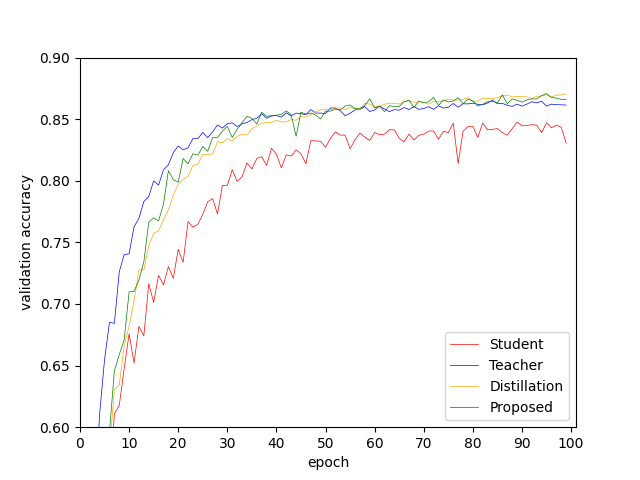
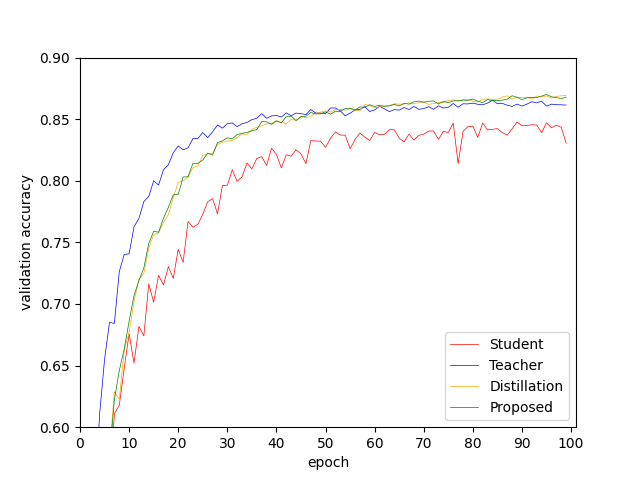
cam-distillation

Changed region(s): [[0.25, 0.1875, 0.9062, 0.4688], [0.1562, 0.5625, 0.2188, 0.875], [0.2188, 0.4688, 0.25, 0.5625]]

diff --git a/src/model.py b/src/model.py
@@ -4,7 +4,7 @@ import torch.nn as nn
 class TeacherConvBnAct(nn.Module):
     def __init__(self, input_dim, output_dim):
         super().__init__()
-        self.conv = nn.Conv2d(input_dim, output_dim, 3, padding=1)
+        self.conv = nn.Conv2d(input_dim, output_dim, 3)
         self.dropout = nn.Dropout(p=0.2)
         self.bn = nn.BatchNorm2d(output_dim)
         self.relu = nn.ReLU(inplace=True)
@@ -19,7 +19,7 @@ class TeacherConvBnAct(nn.Module):
 class StudentConvBnAct(nn.Module):
     def __init__(self, input_dim, output_dim):
         super().__init__()
-        self.conv = nn.Conv2d(input_dim, output_dim, 3, padding=1)
+        self.conv = nn.Conv2d(input_dim, output_dim, 3)
         self.bn = nn.BatchNorm2d(output_dim)
         self.relu = nn.ReLU(inplace=True)
         
@@ -187,7 +187,7 @@ class TModel(BaseModel):
 ### ResNet ###
 class BasicBlock(nn.Module):
     rate=1
-    def __init__(self, input_dim, output_dim,stride=1,drop=0.3):
+    def __init__(self, input_dim, output_dim, stride=1, drop=0.3):
         super().__init__()
         
         self.relu = nn.ReLU(inplace=True)
@@ -253,7 +253,7 @@ class ResNetStudent(nn.Module):
         self.drop = drop
         
         self.conv1 = nn.Sequential(
-            nn.Conv2d(3, 16, kernel_size=3, padding=1, bias=False),
+            nn.Conv2d(3, 16, kernel_size=3, bias=False),
             nn.BatchNorm2d(16),
             nn.ReLU(inplace=True)
         )
@@ -339,7 +339,7 @@ class ResNet(nn.Module):
         self.drop = drop
         
         self.conv1 = nn.Sequential(
-            nn.Conv2d(3, 64, kernel_size=3, padding=1, bias=False),
+            nn.Conv2d(3, 64, kernel_size=3, bias=False),
             nn.BatchNorm2d(64),
             nn.ReLU(inplace=True)
         )
@@ -377,11 +377,11 @@ class ResNet(nn.Module):
 class SampleModel(nn.Module):
     def __init__(self, input_dim=3):
         super().__init__()
-        self.conv1 = nn.Conv2d(input_dim, 32, 3, padding=1)
-        self.conv2 = nn.Conv2d(32, 32, 3, padding=1)
-        self.conv3 = nn.Conv2d(32, 128, 3, padding=1)
-        self.conv4 = nn.Conv2d(128, 128, 3, padding=1)
-        self.conv5 = nn.Conv2d(128, 128, 3, padding=1)
+        self.conv1 = nn.Conv2d(input_dim, 32, 3, padding='same')
+        self.conv2 = nn.Conv2d(32, 32, 3, padding='same')
+        self.conv3 = nn.Conv2d(32, 128, 3, padding='same')
+        self.conv4 = nn.Conv2d(128, 128, 3, padding='same')
+        self.conv5 = nn.Conv2d(128, 128, 3, padding='same')
         self.maxpool = nn.MaxPool2d(2, stride=2)
         self.relu = nn.ReLU(inplace=True)
         self.gap = nn.AdaptiveAvgPool2d((1, 1))
@@ -393,12 +393,13 @@ class SampleModel(nn.Module):
         x = self.maxpool(x)
         x = self.relu(self.conv3(x))
         x = self.relu(self.conv4(x))
+        x = self.maxpool(x)
         x = self.relu(self.conv5(x))
         self.attmap = x
         x = self.gap(x)
         x = x.view(x.shape[0], -1)
         x = self.fc(x)
-        return x, [self.attmap, self.fc.weight]
+        return x, self.attmap
         
 
 # ResNet98
@@ -411,10 +412,18 @@ def resnet_teacher(output_dim=10):
     
 # モデルのパラメータ数のカウント
 teacher = resnet_teacher()
-student = resnet_student()
+student = SampleModel()
+teacher.eval()
+student.eval()
 
 def count_parameters(model):
     return sum(param.numel() for param in model.parameters() if param.requires_grad)
 
 print(f"Teacher parameters: {count_parameters(teacher)}")
 print(f"Student parameters: {count_parameters(student)}")
+
+images = torch.randn(128, 3, 32, 32)
+# _, student_att = student(images)
+# print(student_att.shape)
+# _, teacher_att = teacher(images)
+# print(teacher_att.shape)

diff --git a/result_resnet.py b/result_resnet.py
@@ -13,8 +13,8 @@ def main():
     # loading history
     student_acc = load_hist(student_path, 1)
     teacher_acc = load_hist(teacher_path, 5)
-    st_acc = load_hist(st_path, 4)
-    cam_acc = load_hist(cam_path, 1)
+    st_acc = load_hist(st_path, 5)
+    cam_acc = load_hist(cam_path, 5)
     sample_acc = load_hist(sample_path, 1)
     
     # print test accuracy
@@ -22,10 +22,10 @@ def main():
     student_best = load_best_test(student_path,1)
     teacher_avg = load_avg_test(teacher_path, 5)
     teacher_best = load_best_test(teacher_path, 5)
-    st_avg = load_avg_test(st_path, 4)
-    st_best = load_best_test(st_path, 4)
-    cam_avg = load_avg_test(cam_path, 1)
-    cam_best = load_best_test(cam_path, 1)
+    st_avg = load_avg_test(st_path, 5)
+    st_best = load_best_test(st_path, 5)
+    cam_avg = load_avg_test(cam_path, 5)
+    cam_best = load_best_test(cam_path, 5)
     print('Student avg: ' + str(student_avg) + ' best: ' + str(student_best))
     print('Teacher avg: ' + str(teacher_avg) + ' best: ' + str(teacher_best))
     print('Distillation avg: ' + str(st_avg) + ' best: ' + str(st_best))

diff --git a/train_resnet_cam.py b/train_resnet_cam.py
@@ -16,7 +16,7 @@ import pickle
 from torchvision.models.feature_extraction import create_feature_extractor
 
 def main():
-    for i in range(1):
+    for i in range(1, 5):
         epochs = 100
         batch_size = 128
         np.random.seed(i)
@@ -39,7 +39,7 @@ def main():
         teacher = resnet_teacher().to(device)
         student = resnet_student().to(device)
         
-        teacher.load_state_dict(torch.load('./logs/resnet/teacher/' + str(0) + '.pth')) # 変更箇所: str(i) -> str(0) 
+        teacher.load_state_dict(torch.load('./logs/resnet/teacher/' + str(i) + '.pth')) # 変更箇所: str(i) -> str(0) 
         loss_fn = nn.CrossEntropyLoss() 
         student_hist = {'loss': [], 'accuracy': [], 'val_loss': [], 'val_accuracy': []}
         

diff --git a/train_student.py b/train_student.py
@@ -16,8 +16,8 @@ import pickle
 def main():
     for i in range(1):
         print(i+1)
-        epochs = 50
-        batch_size = 32
+        epochs = 100
+        batch_size = 128
         torch.manual_seed(i)
         np.random.seed(i)
         device = torch.device('cuda' if torch.cuda.is_available() else 'cpu')
@@ -78,7 +78,7 @@ def main():
             student.eval()
             with torch.no_grad():
                 for (images, labels) in val_dataloader:
-                    images,labels = images.to(device), labels.to(device)
+                    images, labels = images.to(device), labels.to(device)
                     
                     preds = student(images)
                     loss = loss_fn(preds, labels)

diff --git a/train_resnet_kd.py b/train_resnet_kd.py
@@ -14,7 +14,7 @@ from src.kd_loss.st import SoftTargetLoss
 import pickle
 
 def main():
-    for i in range(1, 5):
+    for i in range(4, 5):
         print(i)
         epochs = 100
         batch_size = 128
@@ -104,7 +104,7 @@ def main():
                 val_acc /= len(val_dataloader)
                 
             if score <= val_acc:
-                print('test')
+                print('save param')
                 score = val_acc
                 torch.save(student.state_dict(), './logs/resnet/st/' + str(i) + '.pth') 
             

diff --git a/train_resnet.py b/train_resnet.py
@@ -14,7 +14,7 @@ from src.kd_loss.st import SoftTargetLoss
 import pickle
 
 def main():
-    for i in range(1):
+    for i in range(10):
         print(i)
         model_size = 'teacher'
         epochs = 100
